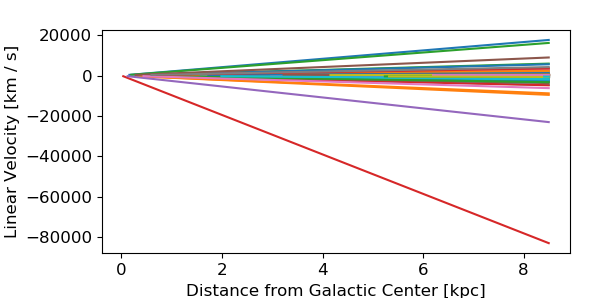
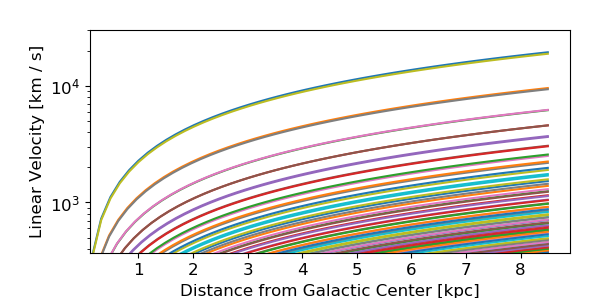
Now THAT is what I call a dispersion chart!

Changed region(s): [[0.0, 0.0906, 0.93, 1.0], [0.27, 0.5134, 0.36, 0.604], [0.18, 0.8758, 0.24, 0.9362]]

diff --git a/lab4/lukas/src/spiral_map.py b/lab4/lukas/src/spiral_map.py
@@ -16,9 +16,15 @@ def frame():
     ax.tick_params(axis="y", labelsize=12)
     return fig, ax
 
-naive_radii = np.linspace(0, R0, 50)
 def arrow(doppler):
-    sin_ell = np.sin(np.degrees(doppler[0]))
+    '''
+    For now, ignore the following outdated advisory
+    Watch out!:
+    We are deliberately restricting sin ell to its magnitude,
+    so we are losing all sense of velocities being toward
+    and away from us based on angle.
+    '''
+    sin_ell = np.sin(np.radians(doppler[0]))
     v_dopp = doppler[1]
 
     radial_space = np.linspace(R0 * abs(sin_ell), R0, 50)
@@ -27,7 +33,7 @@ def arrow(doppler):
 
     return radial_space, np.array([velocity(r) for r in radial_space])
 
-def yoke(dopplers):
+def full_yoke(dopplers):
     fig, ax = frame()
 
     plt.xlabel('Distance from Galactic Center [kpc]', fontsize=12)
@@ -38,6 +44,21 @@ def yoke(dopplers):
         plt.plot(r / kpc, v)
         #plt.plot(naive_radii / kpc, arrow(datum))
 
+    plt.show()
+
+def skip_yoke(dopplers):
+    fig, ax = frame()
+
+    plt.xlabel('Distance from Galactic Center [kpc]', fontsize=12)
+    plt.ylabel('Linear Velocity [km / s]', fontsize=12)
+
+    for i in range(0, len(dopplers), 25):
+        r, v = arrow(dopplers[i])
+        plt.plot(r / kpc, v, label=str(dopplers[i][0]) + ' degrees')
+
+    #ax.legend(loc='lower left')
+    ax.legend(bbox_to_anchor=(1, 1))
+    
     plt.show()
 
 def full_cal_plot(label, lon):
